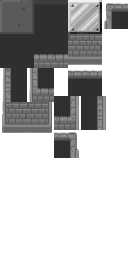
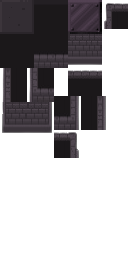
update stage

Changed region(s): [[0.0, 0.0, 1.0, 0.625], [0.75, 0.375, 0.8438, 0.5312]]

diff --git a/src/StageBackground.js b/src/StageBackground.js
@@ -8,35 +8,295 @@ Object.entries(stage.textures[0].frames).forEach(([key, value]) => {
 });
 
 const gameMap = [
-  ["wall-l", "wall-l", "wall-l", "wall-l", "wall-l", "wall-l", "wall-l"],
-  ["floor", "floor", "floor", "floor", "floor", "floor", "floor"],
-  ["floor", "floor", "floor", "plgo", "floor", "floor", "floor"],
-  ["floor", "floor", "floor", "floor", "floor", "floor", "floor"],
-  ["floor", "floor", "floor", "floor", "floor", "floor", "floor"],
-  ["floor", "floor", "floor", "floor", "floor", "floor", "floor"],
-  ["floor", "floor", "floor", "floor", "floor", "floor", "floor"],
-  ["floor", "floor", "hole", "hole", "hole", "floor", "floor"],
-  ["floor", "floor", "floor", "hole", "floor", "floor", "floor"],
-  ["floor", "floor", "metal", "floor", "floor", "floor", "floor"],
-  ["floor", "floor", "floor", "plsp", "floor", "floor", "floor"],
-  ["floor", "floor", "floor", "floor", "floor", "floor", "floor"],
-  ["wall-m", "wall-m", "wall-m", "wall-m", "wall-m", "wall-m", "wall-m"],
+  [
+    "wall-l",
+    "wall-l",
+    "wall-l",
+    "wall-l",
+    "wall-l",
+    "wall-l",
+    "wall-l",
+    "wall-l",
+    "wall-l",
+  ],
+  [
+    "floor",
+    "floor",
+    "floor",
+    "floor",
+    "floor",
+    "floor",
+    "floor",
+    "floor",
+    "floor",
+  ],
+  [
+    "floor",
+    "floor",
+    "floor",
+    "floor",
+    "floor",
+    "plgo",
+    "floor",
+    "floor",
+    "floor",
+  ],
+  [
+    "floor",
+    "floor",
+    "floor",
+    "floor",
+    "floor",
+    "floor",
+    "floor",
+    "floor",
+    "floor",
+  ],
+  [
+    "floor",
+    "floor",
+    "floor",
+    "floor",
+    "floor",
+    "floor",
+    "floor",
+    "floor",
+    "floor",
+  ],
+  [
+    "floor",
+    "floor",
+    "floor",
+    "floor",
+    "floor",
+    "floor",
+    "floor",
+    "floor",
+    "floor",
+  ],
+  [
+    "floor",
+    "floor",
+    "floor",
+    "floor",
+    "floor",
+    "floor",
+    "floor",
+    "floor",
+    "floor",
+  ],
+  [
+    "floor",
+    "floor",
+    "floor",
+    "floor",
+    "hole",
+    "hole",
+    "hole",
+    "floor",
+    "floor",
+  ],
+  [
+    "floor",
+    "floor",
+    "floor",
+    "floor",
+    "floor",
+    "hole",
+    "floor",
+    "floor",
+    "floor",
+  ],
+  [
+    "floor",
+    "floor",
+    "floor",
+    "floor",
+    "metal",
+    "floor",
+    "floor",
+    "floor",
+    "floor",
+  ],
+  [
+    "floor",
+    "floor",
+    "floor",
+    "floor",
+    "floor",
+    "plsp",
+    "floor",
+    "floor",
+    "floor",
+  ],
+  [
+    "floor",
+    "floor",
+    "floor",
+    "floor",
+    "floor",
+    "floor",
+    "floor",
+    "floor",
+    "floor",
+  ],
+  [
+    "wall-m",
+    "wall-m",
+    "wall-m",
+    "wall-m",
+    "wall-m",
+    "wall-m",
+    "wall-m",
+    "wall-m",
+    "wall-m",
+  ],
 ];
 
 const above = [
-  ["wall-l", "wall-l", "wall-l", "wall-l", "wall-l", "wall-l", "wall-l"],
-  ["wall-r", "floor", "floor", "floor", "floor", "floor", "wall-l"],
-  ["wall-r", "floor", "floor", "floor", "floor", "floor", "wall-l"],
-  ["wall-r", "floor", "floor", "floor", "floor", "floor", "wall-l"],
-  ["wall-r", "floor", "floor", "floor", "floor", "floor", "wall-l"],
-  ["wall-r", "floor", "floor", "floor", "floor", "floor", "wall-l"],
-  ["wall-r", "floor", "floor", "floor", "floor", "floor", "wall-l"],
-  ["wall-r", "floor", "floor", "floor", "floor", "floor", "wall-l"],
-  ["wall-r", "floor", "floor", "floor", "floor", "floor", "wall-l"],
-  ["wall-r", "floor", "floor", "floor", "floor", "floor", "wall-l"],
-  ["wall-r", "floor", "floor", "floor", "floor", "floor", "wall-l"],
-  ["wall-r", "floor", "floor", "floor", "floor", "floor", "wall-l"],
-  ["wall-b", "wall-b", "wall-b", "wall-b", "wall-b", "wall-b", "wall-b"],
+  [
+    "wall-l",
+    "wall-l",
+    "wall-l",
+    "wall-l",
+    "wall-l",
+    "wall-l",
+    "wall-l",
+    "wall-l",
+    "wall-l",
+  ],
+  [
+    "wall-r",
+    "floor",
+    "floor",
+    "floor",
+    "floor",
+    "floor",
+    "floor",
+    "floor",
+    "wall-l",
+  ],
+  [
+    "wall-r",
+    "floor",
+    "floor",
+    "floor",
+    "floor",
+    "floor",
+    "floor",
+    "floor",
+    "wall-l",
+  ],
+  [
+    "wall-r",
+    "floor",
+    "floor",
+    "floor",
+    "floor",
+    "floor",
+    "floor",
+    "floor",
+    "wall-l",
+  ],
+  [
+    "wall-r",
+    "floor",
+    "floor",
+    "floor",
+    "floor",
+    "floor",
+    "floor",
+    "floor",
+    "wall-l",
+  ],
+  [
+    "wall-r",
+    "floor",
+    "floor",
+    "floor",
+    "floor",
+    "floor",
+    "floor",
+    "floor",
+    "wall-l",
+  ],
+  [
+    "wall-r",
+    "floor",
+    "floor",
+    "floor",
+    "floor",
+    "floor",
+    "floor",
+    "floor",
+    "wall-l",
+  ],
+  [
+    "wall-r",
+    "floor",
+    "floor",
+    "floor",
+    "floor",
+    "floor",
+    "floor",
+    "floor",
+    "wall-l",
+  ],
+  [
+    "wall-r",
+    "floor",
+    "floor",
+    "floor",
+    "floor",
+    "floor",
+    "floor",
+    "floor",
+    "wall-l",
+  ],
+  [
+    "wall-r",
+    "floor",
+    "floor",
+    "floor",
+    "floor",
+    "floor",
+    "floor",
+    "floor",
+    "wall-l",
+  ],
+  [
+    "wall-r",
+    "floor",
+    "floor",
+    "floor",
+    "floor",
+    "floor",
+    "floor",
+    "floor",
+    "wall-l",
+  ],
+  [
+    "wall-r",
+    "floor",
+    "floor",
+    "floor",
+    "floor",
+    "floor",
+    "floor",
+    "floor",
+    "wall-l",
+  ],
+  [
+    "wall-b",
+    "wall-b",
+    "wall-b",
+    "wall-b",
+    "wall-b",
+    "wall-b",
+    "wall-b",
+    "wall-b",
+    "wall-b",
+  ],
 ];
 
 const preMadeLevel = gameMap.map((row) => row.map((x) => nameToIndex[x]));

diff --git a/src/Electricy.js b/src/Electricy.js
@@ -43,6 +43,7 @@ export class Electricy extends Phaser.GameObjects.Container {
       blendMode: "ADD",
       emitting: false,
     });
+
     this.emitter = particlesEngine.createEmitter({
       frame: "blue",
       emitZone: {

diff --git a/src/main.js b/src/main.js
@@ -7,7 +7,7 @@ import YouLoseScene from "./YouLoseScene";
 const config = {
   type: Phaser.AUTO,
   parent: "app",
-  width: 192,
+  width: 256,
   height: 320,
   physics: {
     default: "arcade",
